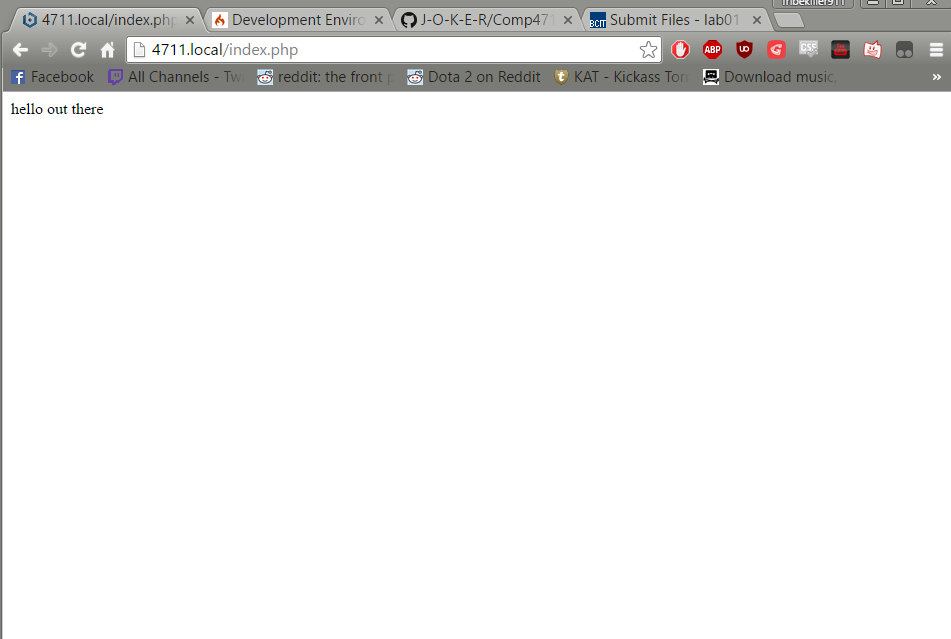
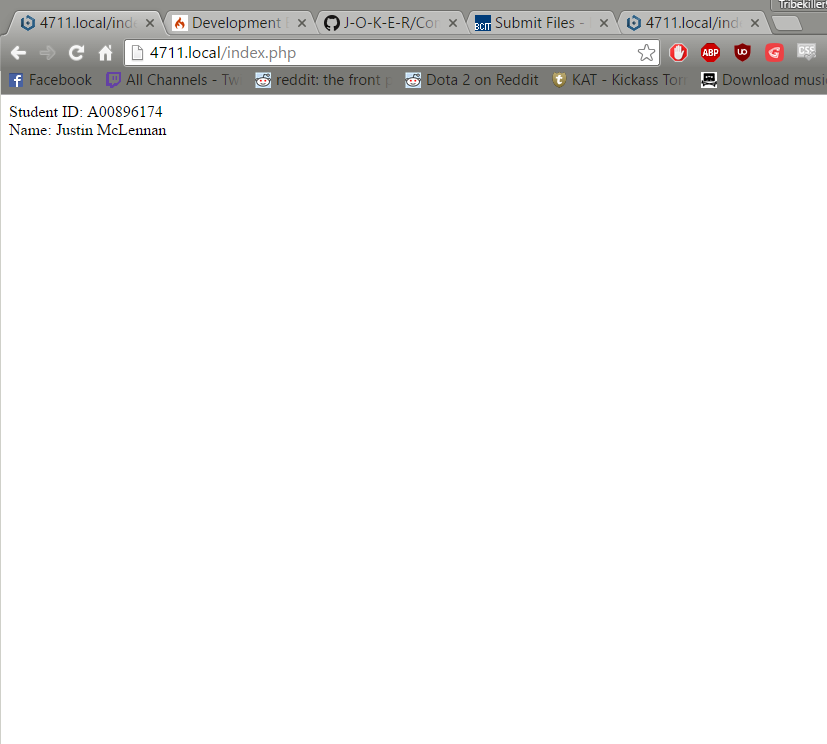
changed to display new netbeans project and reupdated to new screenshots. Also update index to show student info.

Changed region(s): [[0.0, 0.0, 1.0, 1.0]]

diff --git a/index.php b/index.php
@@ -11,7 +11,9 @@ and open the template in the editor.
     </head>
     <body>
         <?php
-        echo 'hello out there';
+        echo ' Student ID: A00896174 <br>'
+        . 'Name: Justin McLennan'
+        ;
         ?>
     </body>
 </html>
